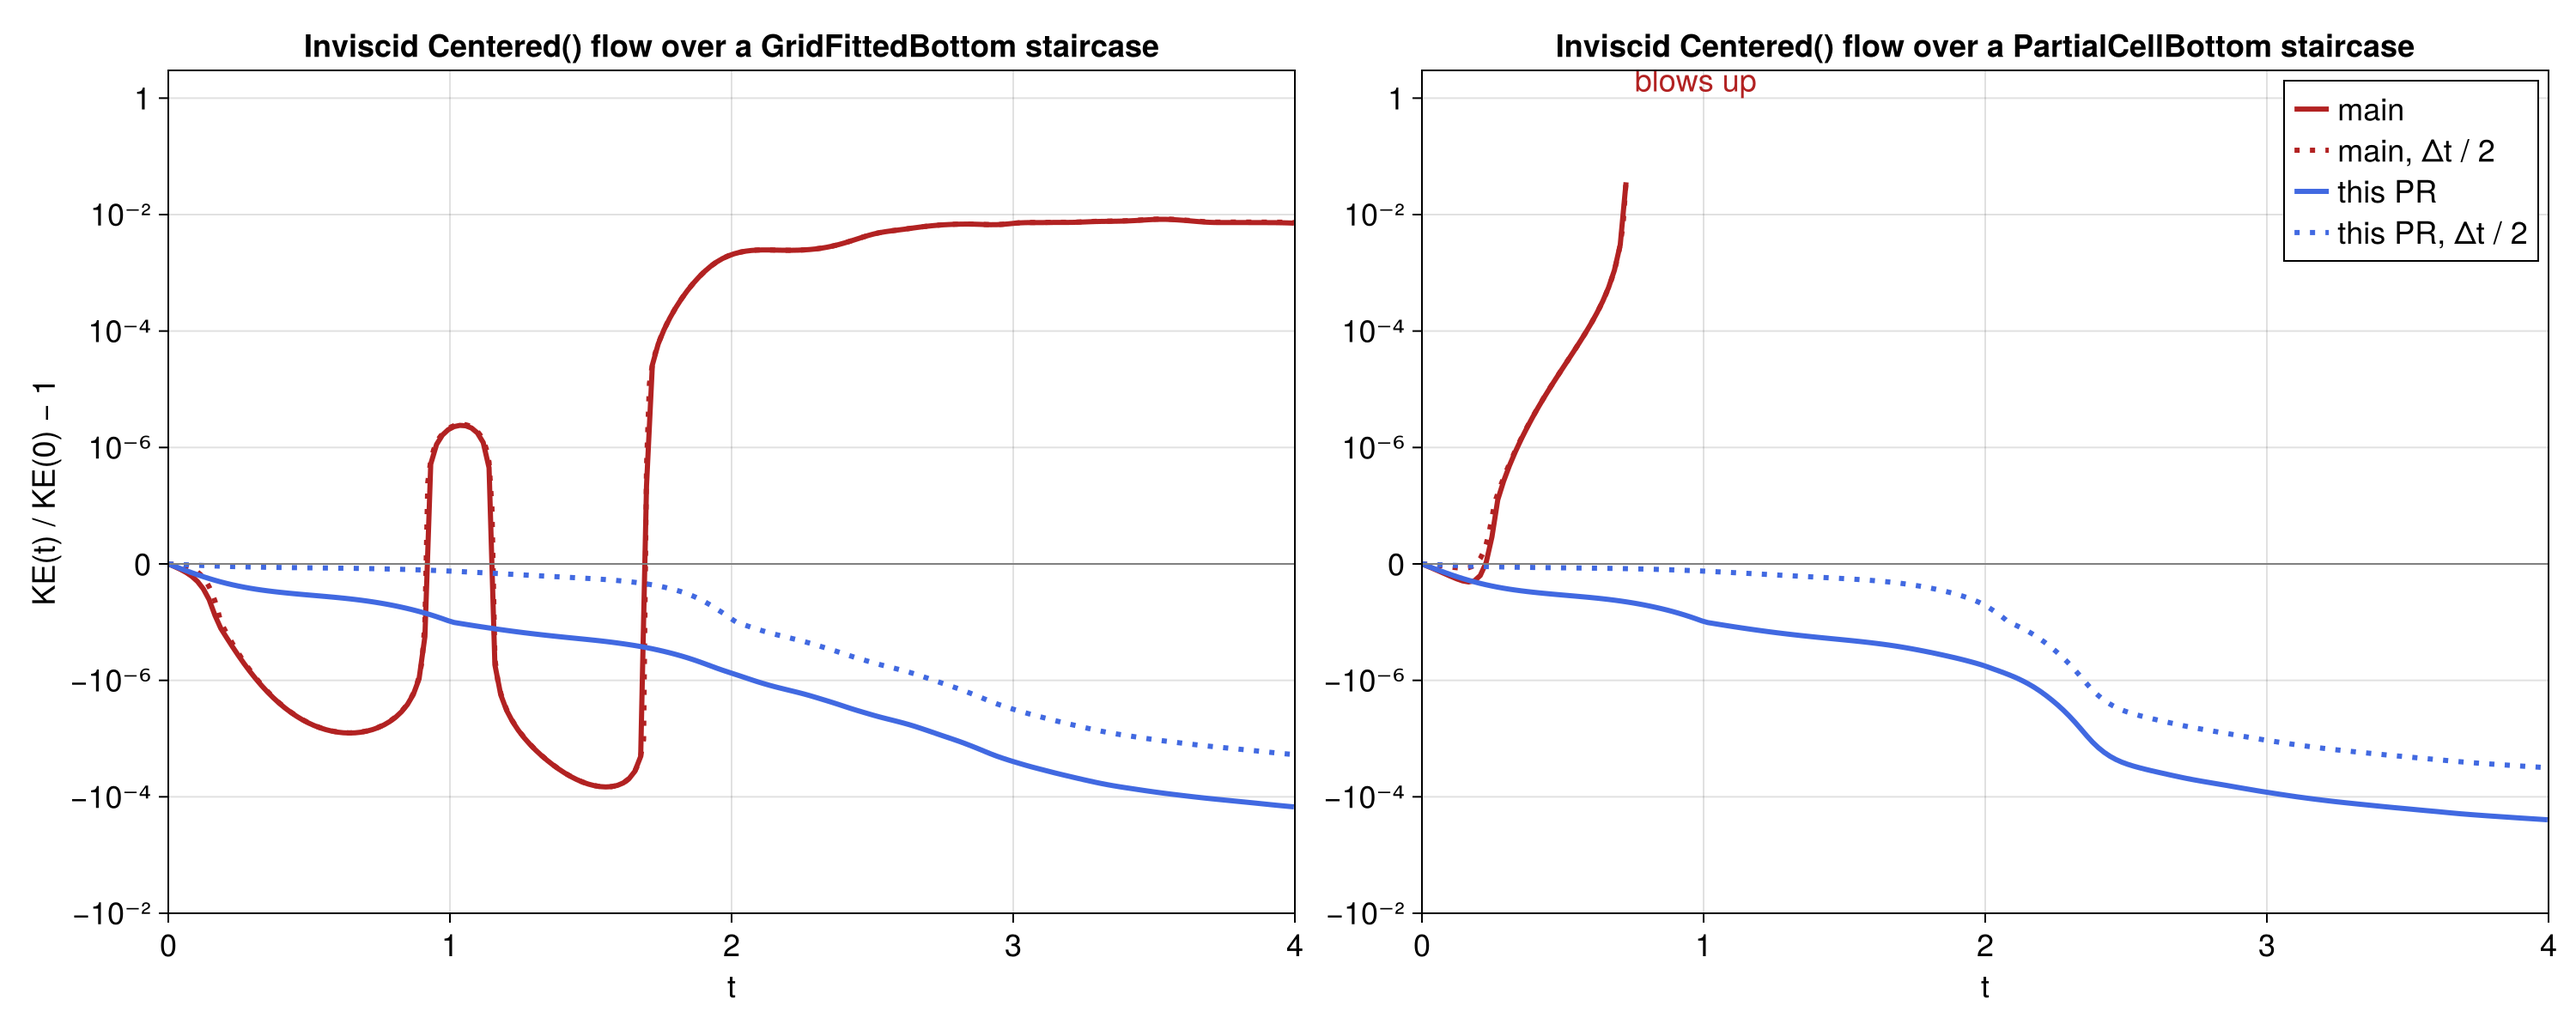
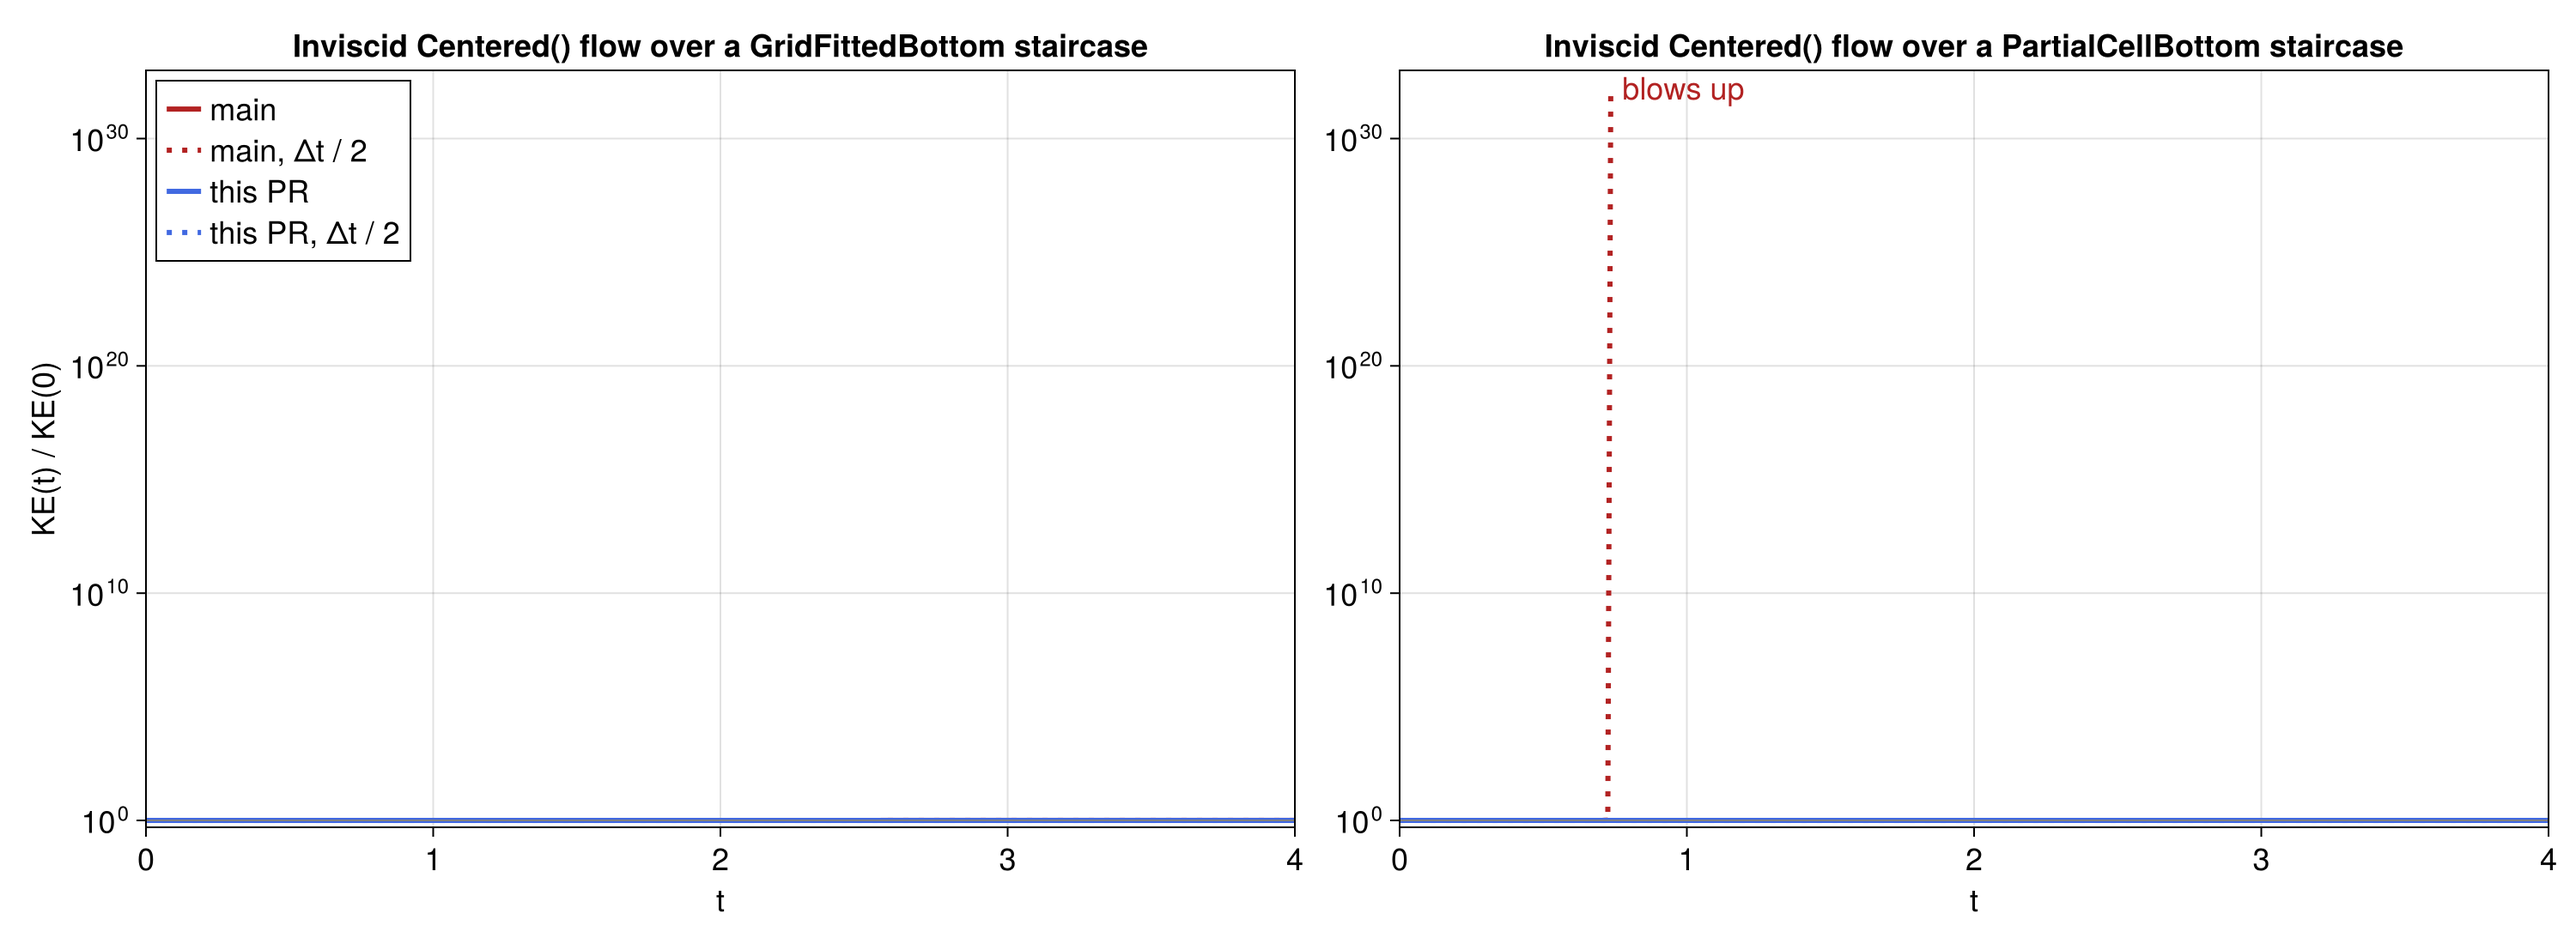
Plot the kinetic energy ratio on a log axis

diff --git a/README.md b/README.md
@@ -10,6 +10,6 @@ then `julia plot.jl <directory containing out_base and out_pr>` with CairoMakie.
 
 `kinetic_energy_full_partial.png`: `demo.jl`/`demo_dt.jl` (full cells), `demo3.jl` (partial cells on `main`) and `demo4.jl` (partial cells on the PR head, output `out_prfix`), plotted with `plot_ke2.jl`.
 
-`kinetic_energy.png` (current): `ke_final.jl` run on the merge base (`d6a60f2`, output `final_base`) and on the PR head (`0279ba1`, output `final_pr`), plotted with `plot_ke_symlog.jl`.
+`kinetic_energy.png` (current): `ke_final.jl` run on the merge base (`d6a60f2`, output `final_base`) and on the PR head (`0279ba1`, output `final_pr`), plotted with `plot_ke_ratio_log.jl`.
 
 `staircase_convection.png` (current): `conv_final.jl` run on the PR head (`7faabdd`, output `conv_pr`, all cases) and on the merge base (`conv_base`, the 128 × 128 cases); the merge-base 16 × 128 and 3D curves are the `demo.jl`/`demo2.jl`/`demo3.jl` runs. Plotted with `plot_conv_final.jl`.
